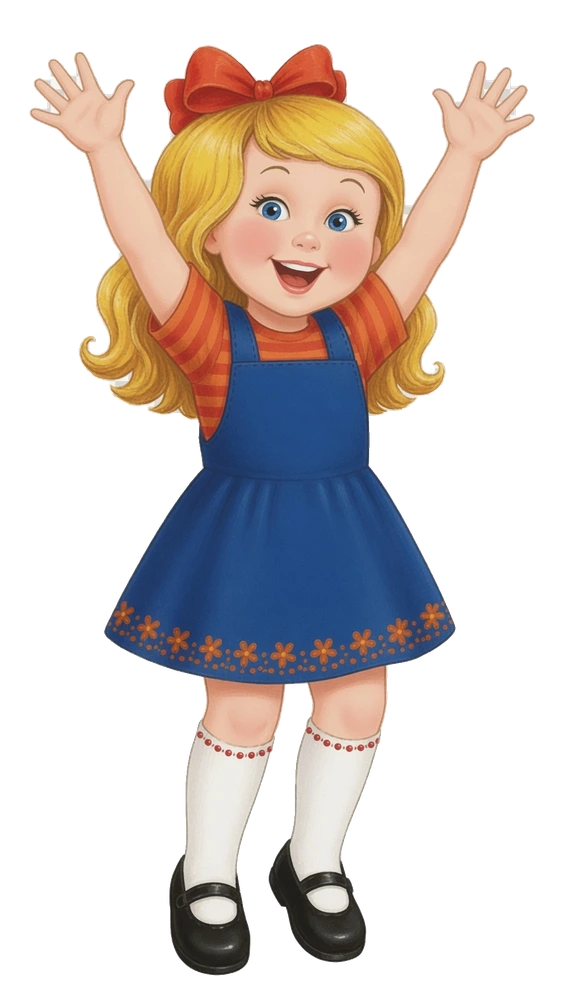
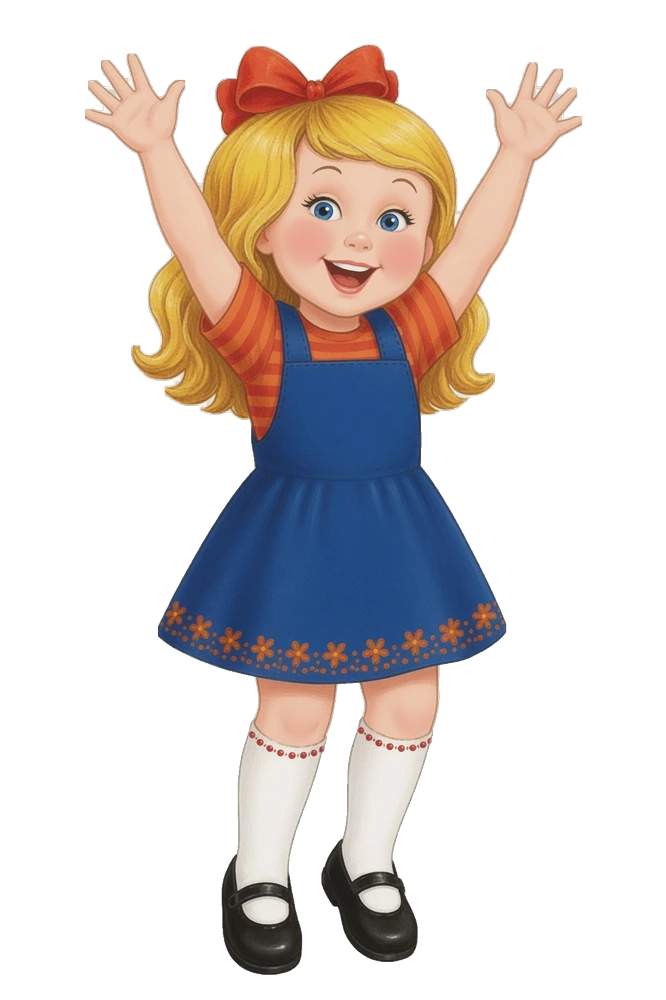
Gretel premium polish: fix sock/shoe gap, normalize pose canvas, add contact shadow (#87)
Idle, point, and talk poses had a real defect: the shoes were a separate
disconnected blob floating ~250px below the socks (visible as a stray gap
or, in idle's case, an incorrectly stretched-sock patch with a checkerboard
artifact). Fixed by detecting the shoe as its own connected component and
shifting it up to sit flush against the leg, then re-normalizing all
affected poses onto the shared 666x1000 canvas at matching character
height/baseline so pose-swaps no longer jump in scale.

Added a soft ground-contact shadow beneath Gretel's feet plus a refined
ambient drop-shadow, both synced to each motion state's own vertical
travel (the shadow shrinks and lightens exactly when she lifts up).

Known remaining issue (not fixed here): gretel-wave.webp uses a different,
flatter illustration style than the other 4 poses (introduced in PR #81) -
no matching-style source art exists yet to redraw it.

Changed region(s): [[0.0605, 0.031, 0.5142, 0.992], [0.484, 0.031, 0.968, 0.961]]

diff --git a/src/styles/gretel.css b/src/styles/gretel.css
@@ -177,7 +177,10 @@
   .animate-gretel-bob,
   .animate-gretel-wave,
   .animate-gretel-point,
-  .animate-gretel-bounce {
+  .animate-gretel-bounce,
+  .animate-gretel-shadow-bob,
+  .animate-gretel-shadow-point,
+  .animate-gretel-shadow-bounce {
     animation: none !important;
   }
 }
@@ -241,5 +244,75 @@
   }
   75% {
     transform: translateY(-4px) scaleY(1.02);
+  }
+}
+
+/* Soft contact shadow beneath Gretel's feet, grounding her against any
+   background. Pulses in sync with each motion class's own vertical travel
+   so the shadow shrinks/lightens exactly when she lifts off the ground. */
+.gretel-contact-shadow {
+  position: absolute;
+  left: 50%;
+  bottom: -2%;
+  width: 62%;
+  height: 10%;
+  transform: translateX(-50%);
+  border-radius: 50%;
+  background: radial-gradient(ellipse at center, rgba(15, 15, 25, 0.4) 0%, rgba(15, 15, 25, 0.2) 50%, rgba(15, 15, 25, 0) 78%);
+  filter: blur(2px);
+  pointer-events: none;
+  z-index: 0;
+}
+
+.animate-gretel-shadow-bob {
+  animation: gretel-shadow-bob 3s ease-in-out infinite;
+}
+
+.animate-gretel-shadow-point {
+  animation: gretel-shadow-point 1s ease-in-out infinite;
+}
+
+.animate-gretel-shadow-bounce {
+  animation: gretel-shadow-bounce 1.2s ease-in-out infinite;
+}
+
+@keyframes gretel-shadow-bob {
+  0%, 100% {
+    transform: translateX(-50%) scale(1);
+    opacity: 1;
+  }
+  50% {
+    transform: translateX(-50%) scale(0.85);
+    opacity: 0.65;
+  }
+}
+
+@keyframes gretel-shadow-point {
+  0%, 100% {
+    transform: translateX(-50%) scale(1);
+    opacity: 1;
+  }
+  50% {
+    transform: translateX(-50%) scale(0.93);
+    opacity: 0.8;
+  }
+}
+
+@keyframes gretel-shadow-bounce {
+  0%, 100% {
+    transform: translateX(-50%) scale(1);
+    opacity: 1;
+  }
+  30% {
+    transform: translateX(-50%) scale(0.68);
+    opacity: 0.5;
+  }
+  50% {
+    transform: translateX(-50%) scale(1.1);
+    opacity: 1;
+  }
+  75% {
+    transform: translateX(-50%) scale(0.82);
+    opacity: 0.7;
   }
 }

diff --git a/src/components/gretel/GretelGuide.tsx b/src/components/gretel/GretelGuide.tsx
@@ -26,15 +26,19 @@ export function GretelGuide({
   };
 
   let motionClass = "";
+  let shadowMotionClass = "";
   if (!reducedMotion) {
     if (machineState === "idle" || machineState === "talking" || machineState === "boot" || machineState === "blinking") {
       motionClass = "animate-gretel-bob";
+      shadowMotionClass = "animate-gretel-shadow-bob";
     } else if (machineState === "waving") {
       motionClass = "animate-gretel-wave";
     } else if (machineState === "pointing") {
       motionClass = "animate-gretel-point";
+      shadowMotionClass = "animate-gretel-shadow-point";
     } else if (machineState === "cheering") {
       motionClass = "animate-gretel-bounce";
+      shadowMotionClass = "animate-gretel-shadow-bounce";
     }
   }
 
@@ -62,15 +66,21 @@ export function GretelGuide({
         </div>
       )}
 
-      <div className={`relative h-24 w-24 sm:h-36 sm:w-36 origin-bottom drop-shadow-xl select-none ${motionClass}`}>
-        <img
-          key={currentPose}
-          src={currentPose}
-          alt="Gretel"
-          className="h-full w-full object-contain"
-          draggable={false}
-          onError={handleError}
-        />
+      <div className="relative h-24 w-24 sm:h-36 sm:w-36">
+        <div className={`gretel-contact-shadow ${shadowMotionClass}`} />
+        <div
+          className={`relative h-full w-full origin-bottom select-none ${motionClass}`}
+          style={{ filter: "drop-shadow(0 10px 10px rgba(20, 20, 30, 0.28)) drop-shadow(0 2px 3px rgba(20, 20, 30, 0.18))" }}
+        >
+          <img
+            key={currentPose}
+            src={currentPose}
+            alt="Gretel"
+            className="h-full w-full object-contain"
+            draggable={false}
+            onError={handleError}
+          />
+        </div>
       </div>
     </div>
   );
